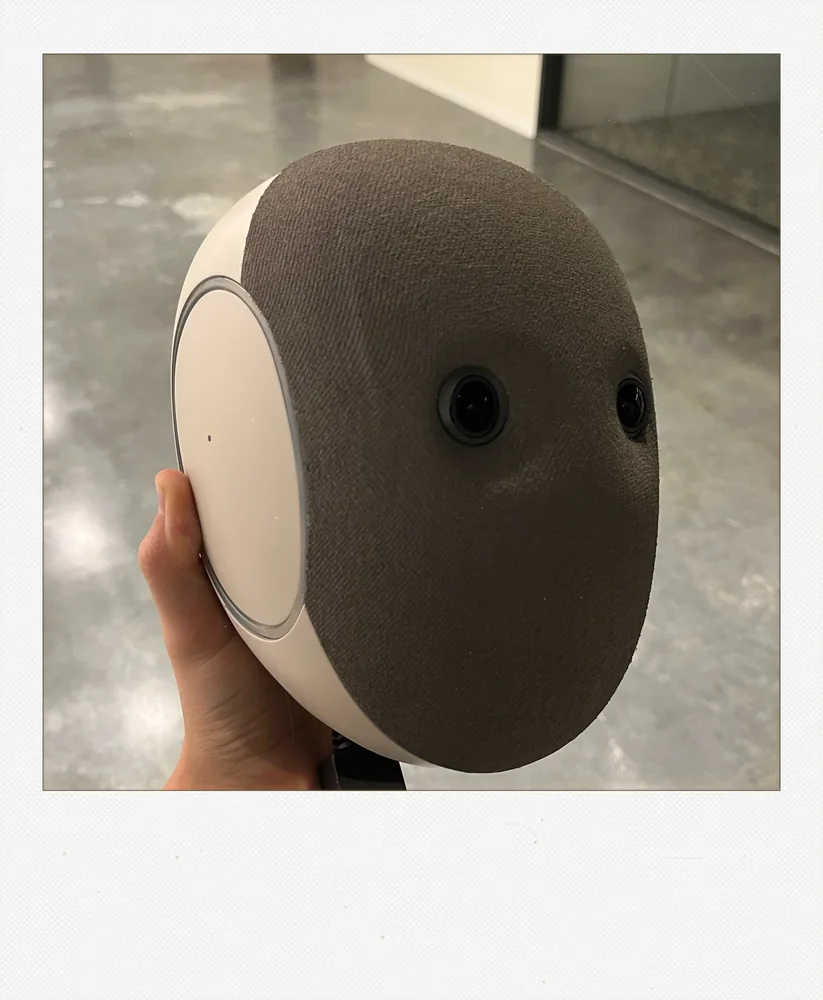
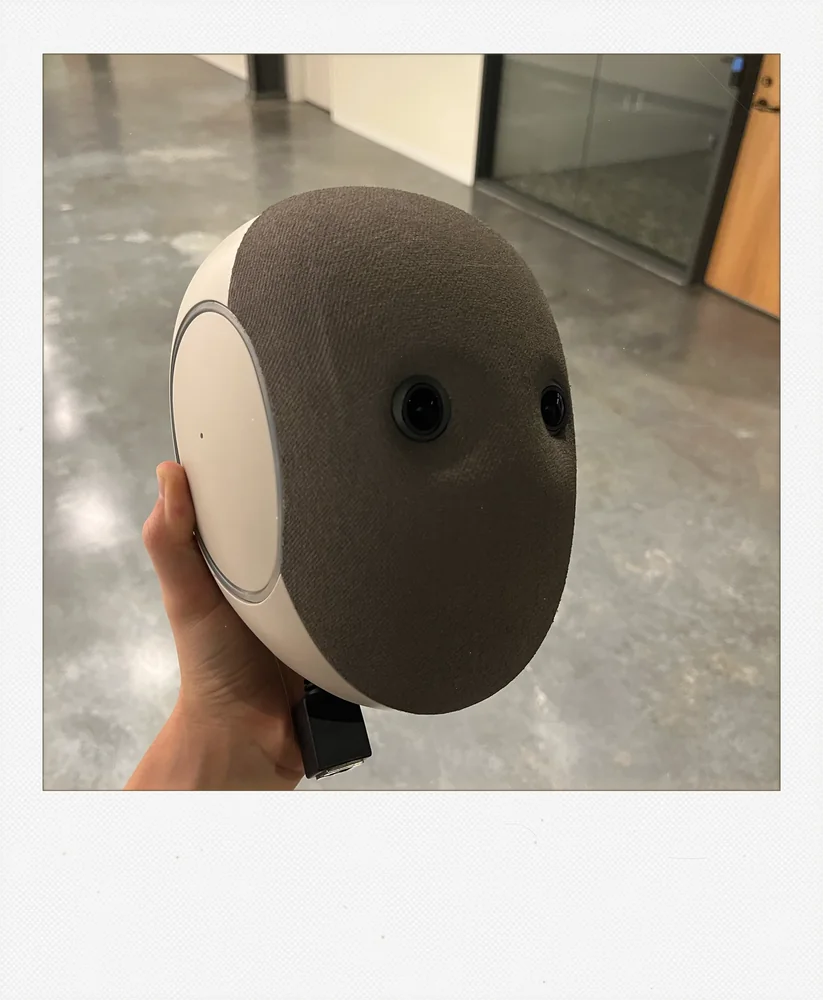
site: the hand polaroid zoomed out to the photo's full width (owner 2026-10-09: "zoomed out till the border limit on the new polaroid")
hand-sq.png = the widest square IMG_2136 allows, (0, 508, 3024, 3532) upright — 3024 px, centred where the 10-07 crop (82, 760, 2602, 3280) was; the cable plug and the wrist now in frame. Same as-shot render (look_mix 0, seeds 13/16 → paper bit-identical), brew/polaroid out/polaroid-hand-wide.png, gain on the paper only.

Claude-Session: https://claude.ai/code/session_01VATduVhnAmRPVCf4aY2fXM

diff --git a/proto/site.html b/proto/site.html
@@ -4317,7 +4317,7 @@ stacks.push(makeStack($('macbook'), { name: 'macbook', idp: 'mb-', images: MACBO
 const POLAROIDS = [
   { id: 'neo',   src: '../assets/neo/neo-card.webp',   w: 1645, h: 2000 },    // the FRONT print since 2026-10-09, inked "Love, 1X" (owner: "remove the first pic of the polaroid stack, and swap it to the head laying pic and put the love, 1x there") — the figure's line: same hand / pen / size / placement, ink layer bit-identical (brew/polaroid ink/neo-love). 2026-09-28 … 10-09 un-inked ("rm love from text from the pic with a head"); the old "with love from 1x" = neo-card-inked-old.webp
   { id: 'trees', src: '../assets/neo/trees-card.webp', w: 1645, h: 2000 },
-  { id: 'hand',  src: '../assets/neo/hand-card.webp',  w: 1645, h: 2000 },    // 2026-10-09 (owner: "try to put an unedited polaroid there of … IMG_2136.HEIC"): NEO's head held in a hand, the photo AS SHOT (P3 → sRGB, look_mix 0, no pre-grade; the site gain on the PAPER only, like the trees), brew/polaroid out/polaroid-hand-asshot.png. It takes the slot of the FIGURE (figure-card.webp, 2025 Neo/L1001549.jpeg inked "Love, 1X" — the front print until the owner's "remove the first pic of the polaroid stack"; the file stays, unreferenced)
+  { id: 'hand',  src: '../assets/neo/hand-card.webp',  w: 1645, h: 2000 },    // 2026-10-09 (owner: "try to put an unedited polaroid there of … IMG_2136.HEIC"): NEO's head held in a hand, the photo AS SHOT (P3 → sRGB, look_mix 0, no pre-grade; the site gain on the PAPER only, like the trees) and zoomed out to the photo's full width (owner, same day: "zoomed out till the border limit on the new polaroid" — the widest square, 3024 px, centred where the 10-07 crop was), brew/polaroid out/polaroid-hand-wide.png. It takes the slot of the FIGURE (figure-card.webp, 2025 Neo/L1001549.jpeg inked "Love, 1X" — the front print until the owner's "remove the first pic of the polaroid stack"; the file stays, unreferenced)
   { id: 'dancers', src: '../assets/neo/dancers-card.webp', w: 1645, h: 2000 },  // 2025 Neo/Screenshot 2025-11-04 (the red/blue figure drawing) widened to 1:1, --look polaroid (owner: 'apply some polaroid type filter'; sx70 went mint on the white paper), no inscription
 ];
 const POL_KNOBS = { radius: 0, border: 0, vradius: 0, vborder: 0, shadow: 1, vshadow: 1 };   // square corners; the shadows carry their own alpha (1 = as measured), at home AND in the viewer (owner 2026-09-26: "add a shadow on the fullscreen version of the polaroid too")
